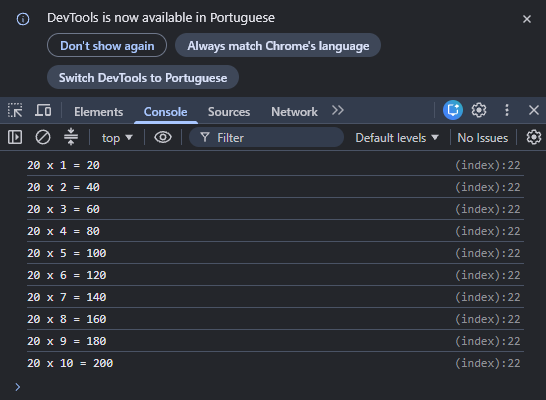
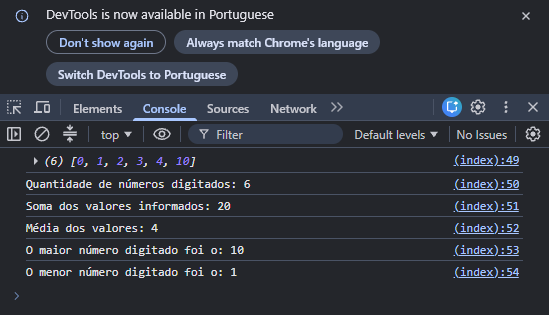
feat: processa numeros com laco while

Changed region(s): [[0.0, 0.0286, 1.0, 0.9143], [0.9341, 0.0286, 0.9963, 0.0571]]

diff --git a/exercicio09.js b/exercicio09.js
@@ -1,15 +1,4 @@
-<!DOCTYPE html>
-<html lang="pt-BR">
-
-<head>
-    <meta charset="UTF-8">
-    <meta name="viewport" content="width=device-width, initial-scale=1.0">
-    <title>Processador de números</title>
-</head>
-
-<body>
-    <script>
-        let todosNumeros = [];
+let todosNumeros = [];
         let soma = 0;
         while (true) {
             let numero = Number(prompt("Digite vários números e aperte enter, quando quiser encerrar pressione 0 e de enter"));
@@ -51,9 +40,4 @@
         console.log(`Soma dos valores informados: ${soma}`);
         console.log(`Média dos valores: ${media}`);
         console.log(`O maior número digitado foi o: ${maiorNumero}`);
-        console.log(`O menor número digitado foi o: ${menorNumero}`);
-
-    </script>
-</body>
-
-</html>
+        console.log(`O menorr número digitado foi o: ${menorNumero}`);
